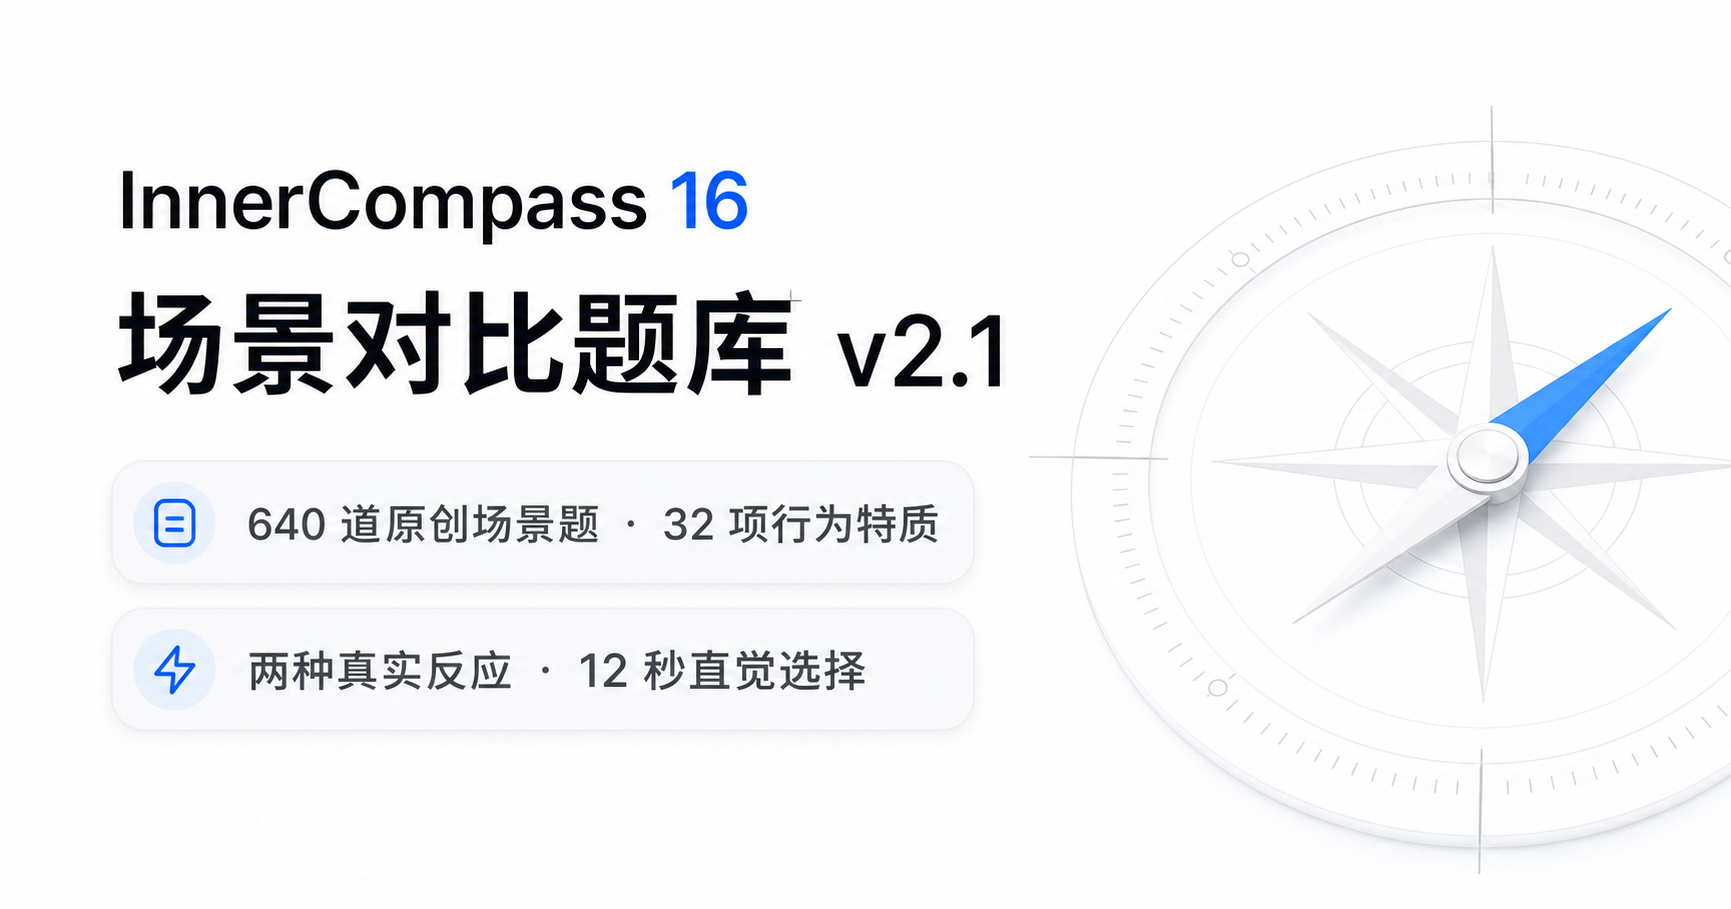
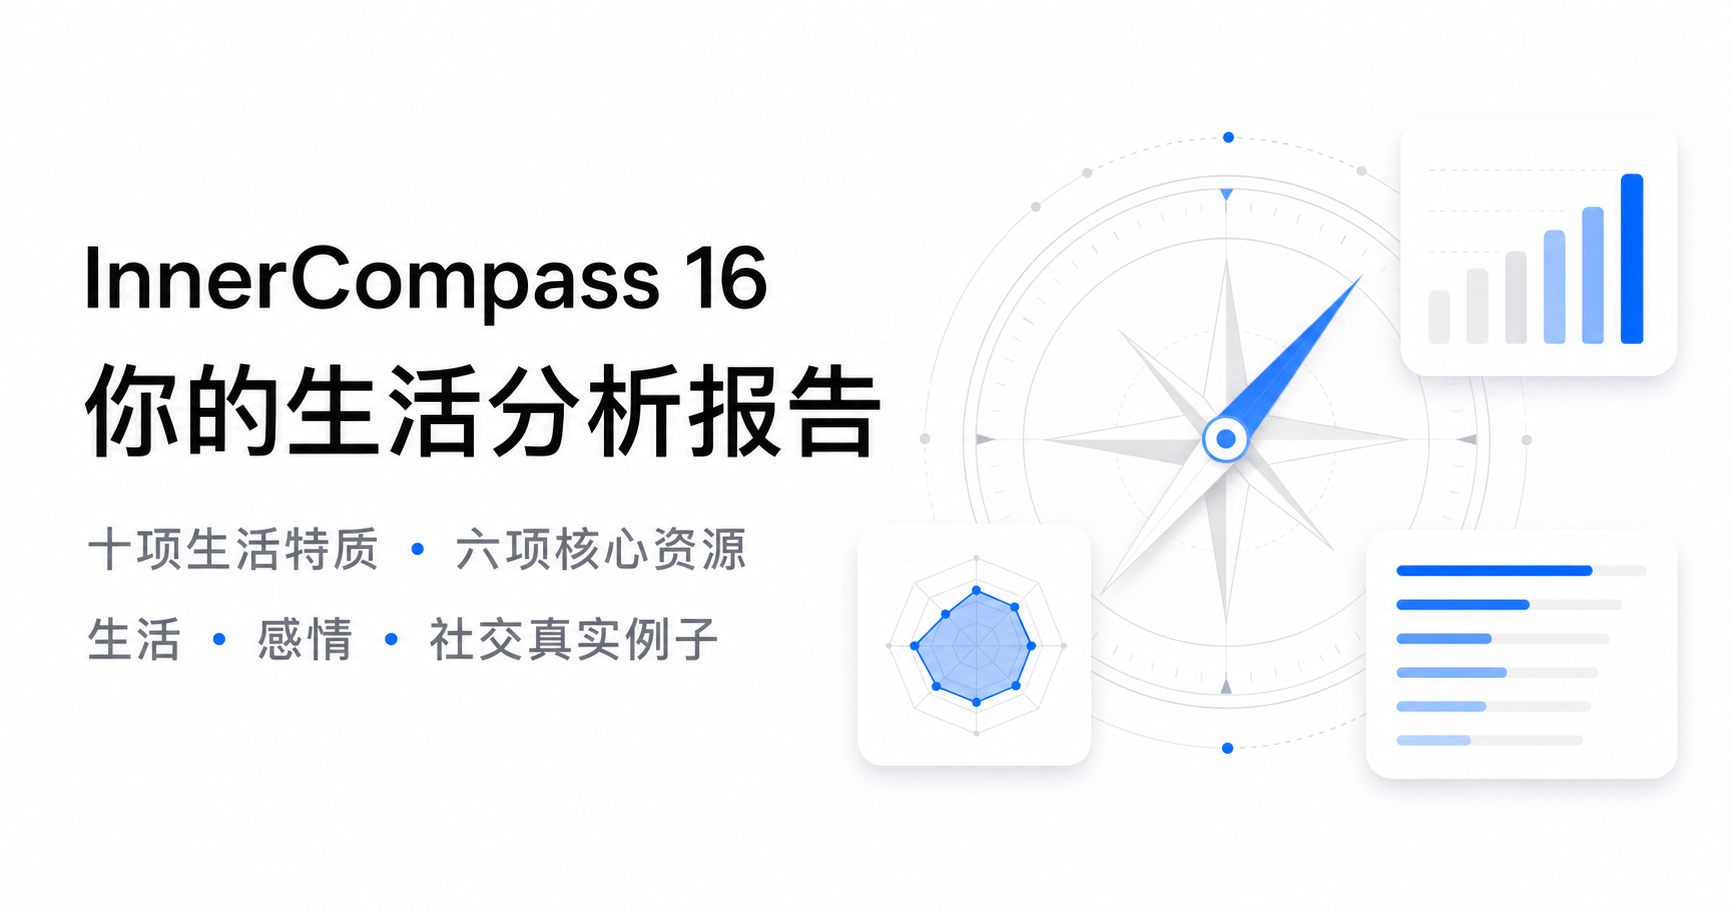
Transform report into life analysis

diff --git a/lib/reportComposer.ts b/lib/reportComposer.ts
@@ -38,7 +38,48 @@ export type AxisInsight = {
   sceneSwitch?: string;
 };
 
+export type LifeDimensionInsight = {
+  id: string;
+  title: string;
+  score: number;
+  usageLabel: string;
+  interpretation: string;
+  example: string;
+};
+
 const traits = traitCatalogJson.traits as TraitCatalogItem[];
+
+const lifeDimensionSpecs = [
+  { id: "L_E_SOCIAL", title: "社交启动", high: "到了几乎没有熟人的聚会，你通常愿意先找一个人聊起来。", low: "你更可能先观察环境，等感觉安全后再慢慢参与。" },
+  { id: "L_I_RECOVER", title: "独处恢复", high: "连续社交几天后，你会主动空出一段安静时间恢复状态。", low: "你更容易通过聊天或共同活动重新获得能量。" },
+  { id: "L_I_THINK", title: "独立思考", high: "面对重要决定，你会先独立想清楚，再和别人讨论。", low: "你更容易在来回交流中逐渐确认自己的想法。" },
+  { id: "L_S_DETAIL", title: "细节核对", high: "购买价格较高的东西前，你会核对参数、价格和实际条件。", low: "你通常先抓整体感受，需要时才回头补细节。" },
+  { id: "L_N_POSSIBILITY", title: "可能性探索", high: "别人提出一个普通想法时，你常会继续想到它还能变成什么。", low: "你更愿意先把已经可行的方法稳定做好。" },
+  { id: "L_S_PRACTICAL", title: "现实落地", high: "有了新想法后，你会很快追问今天能先完成哪一步。", low: "你更愿意先把方向想丰富，不急着马上固定做法。" },
+  { id: "L_T_LOGIC", title: "逻辑判断", high: "即使大家都赞同一个观点，你仍会检查它的因果和标准。", low: "你会先理解相关人的处境，再判断这个观点是否合适。" },
+  { id: "L_F_EMOTION", title: "情绪感知", high: "朋友嘴上说没事但状态不对时，你通常能较快注意到变化。", low: "你更相信对方明确说出的内容，不轻易替他解释感受。" },
+  { id: "L_J_PLAN", title: "计划组织", high: "准备三到五天的旅行时，你会先确定住宿、路线和关键时间。", low: "你通常只定最基本的部分，把更多决定留到现场。" },
+  { id: "L_P_ADAPT", title: "灵活应变", high: "原定计划临时被打乱时，你通常能较快接受并重新安排。", low: "突发变化会明显占用你的精力，你更喜欢维持确定节奏。" },
+] as const;
+
+const lifeManualCopy: Record<Pole, string> = {
+  E: "先找可信任的人聊一轮，借外部反馈理清状态；之后再留一点时间独立收束。",
+  I: "先给自己一段安静时间形成判断，再把结论和需要明确告诉关键的人。",
+  S: "先核对已经发生的事实、数字和步骤，再决定是否需要扩大解释。",
+  N: "先抓住信息之间的联系和可能方向，再补三个可以验证的具体事实。",
+  T: "先明确问题、标准和可执行办法，再确认这个决定会怎样影响相关的人。",
+  F: "先确认感受和关系影响，再把自己的原则、边界与下一步说清楚。",
+  J: "先确定关键节点、截止点和必须完成的部分，同时为变化预留缓冲。",
+  P: "先保留选择并开始一个小尝试，再设一个检查点，避免事情一直悬着。",
+};
+
+function usageLabel(score: number): string {
+  if (score >= 70) return "自然常用";
+  if (score >= 56) return "比较常用";
+  if (score >= 45) return "灵活切换";
+  if (score >= 30) return "较少使用";
+  return "通常不优先";
+}
 
 const legacyTraitIds: Record<string, string> = {
   L_E_SOCIAL: "life_social_initiative", L_I_RECOVER: "life_solitude_recovery",
@@ -236,6 +277,42 @@ export function composeReport(result: SessionResult, completedRuns: SessionResul
   const relationshipTraits = traitScores.filter((item) => item.domain === "relationship");
   const axisBy = Object.fromEntries(axes.map((item) => [item.axis, item])) as Record<Axis, AxisInsight>;
   const traitBy = Object.fromEntries(traitScores.map((item) => [item.id, item])) as Record<string, TraitInsight>;
+  const lifeDimensions: LifeDimensionInsight[] = lifeDimensionSpecs.map((spec) => {
+    const trait = traitBy[spec.id];
+    const example = trait.score >= 56
+      ? spec.high
+      : trait.score <= 44
+        ? spec.low
+        : `这两种方式你都会使用，通常会根据精力、关系距离和事情的重要程度切换。`;
+    return {
+      id: spec.id,
+      title: spec.title,
+      score: trait.score,
+      usageLabel: usageLabel(trait.score),
+      interpretation: trait.interpretation,
+      example,
+    };
+  });
+  const coreLifeResources = traitScores.slice(0, 6).map((item) => ({
+    title: item.name,
+    score: item.score,
+    domain: item.domain,
+    text: item.interpretation,
+    evidence: `常见表现：${item.behavior}。`,
+    action: item.action,
+  }));
+  const energyDrains = traitScores.slice(-5).reverse().map((item) => ({
+    title: item.name,
+    score: item.score,
+    text: `当生活持续要求你${item.behavior}时，你可能需要投入更多注意力，也更容易感到消耗。你更自然的方式通常是${item.alternative}。`,
+    action: item.action,
+  }));
+  const lifeManual = axes.map((item) => ({
+    axis: item.axis,
+    title: ({ EI: "恢复精力时", SN: "理解信息时", TF: "做重要决定时", JP: "安排生活节奏时" } as Record<Axis, string>)[item.axis],
+    preference: `${item.dominantPole} ${item.dominantPercent}% · ${item.strengthLabel}`,
+    text: lifeManualCopy[item.dominantPole],
+  }));
   const runs = completedRuns.length ? completedRuns : [result];
   const quality = {
     confidence: confidence(result, runs),
@@ -257,6 +334,10 @@ export function composeReport(result: SessionResult, completedRuns: SessionResul
     bottomTraits: traitScores.slice(-6).reverse(),
     lifeTraits,
     relationshipTraits,
+    lifeDimensions,
+    coreLifeResources,
+    energyDrains,
+    lifeManual,
     gaps,
     flow,
     flowTitle: flow.join(" → "),

diff --git a/app/globals.css b/app/globals.css
@@ -214,6 +214,52 @@ button:focus-visible { outline:3px solid rgba(22,119,255,.28); outline-offset:3p
 .topic-grid h3 { margin:0; font-size:16px; }
 .topic-grid p { margin:10px 0 0; color:#5d6672; font-size:14px; line-height:1.78; }
 .topic-grid.relationship article { background:#fbfcfe; }
+.section-intro { margin:-12px 0 30px; max-width:860px; color:#68717d; font-size:14px; line-height:1.8; }
+.life-dimension-grid { display:grid; grid-template-columns:1fr 1fr; gap:14px; }
+.life-dimension-grid>article { padding:24px; border:1px solid var(--line); border-radius:20px; background:#fff; }
+.life-dimension-grid header { display:flex; align-items:flex-start; justify-content:space-between; gap:16px; }
+.life-dimension-grid header span { color:var(--blue); font-size:11px; font-weight:750; }
+.life-dimension-grid h3 { margin:5px 0 0; font-size:19px; }
+.life-dimension-grid header strong { color:var(--blue); font-size:28px; letter-spacing:-.05em; }
+.life-dimension-grid>article>i { display:block; height:6px; margin:17px 0; border-radius:999px; overflow:hidden; background:#e9edf3; }
+.life-dimension-grid>article>i em { display:block; height:100%; border-radius:999px; background:var(--blue); }
+.life-dimension-grid>article>p { min-height:66px; margin:0; color:#5f6875; font-size:13px; line-height:1.7; }
+.scene-example { margin-top:18px; padding:15px 16px; border-radius:14px; background:#f5f8fc; }
+.scene-example b { color:var(--blue); font-size:11px; }
+.scene-example p { margin:6px 0 0; color:#4f5865; font-size:13px; line-height:1.65; }
+.resource-grid { display:grid; grid-template-columns:1fr 1fr; gap:14px; }
+.resource-grid>article { position:relative; padding:24px; border:1px solid var(--line); border-radius:20px; background:#fff; overflow:hidden; }
+.resource-rank { position:absolute; top:-9px; right:12px; color:#eef4fc; font-size:64px; font-weight:850; letter-spacing:-.08em; }
+.resource-grid header { position:relative; display:flex; justify-content:space-between; gap:18px; }
+.resource-grid header span { color:var(--blue); font-size:11px; font-weight:750; }
+.resource-grid h3 { margin:5px 0 0; font-size:20px; }
+.resource-grid header strong { color:var(--blue); font-size:27px; }
+.resource-grid>article>p { position:relative; margin:18px 0; color:#5c6571; font-size:13px; line-height:1.75; }
+.resource-grid>article>div:last-child { position:relative; display:flex; flex-direction:column; gap:7px; padding-top:16px; border-top:1px solid var(--line); }
+.resource-grid>article>div:last-child b { color:#424b57; font-size:12px; }
+.resource-grid>article>div:last-child small { color:#7c8490; line-height:1.6; }
+.life-split { align-items:start; }
+.drain-list { display:flex; flex-direction:column; gap:12px; }
+.drain-list>article { padding:22px 24px; border:1px solid #eee9e1; border-radius:18px; background:#fdfbf8; }
+.drain-list header { display:flex; align-items:center; justify-content:space-between; gap:18px; }
+.drain-list h3 { margin:0; font-size:17px; }
+.drain-list header span { color:#9a7450; font-size:12px; font-weight:700; }
+.drain-list>article>p { margin:12px 0 16px; color:#655f59; font-size:13px; line-height:1.75; }
+.drain-list>article>div { display:flex; gap:10px; padding-top:14px; border-top:1px solid #eee5da; font-size:12px; line-height:1.6; }
+.drain-list>article>div b { color:#9a6337; flex:0 0 auto; }
+.drain-list>article>div span { color:#73685f; }
+.life-manual-grid { display:grid; grid-template-columns:1fr 1fr; gap:14px; }
+.life-manual-grid>article { display:grid; grid-template-columns:48px 1fr; gap:16px; padding:23px; border:1px solid var(--line); border-radius:19px; background:#fff; }
+.life-manual-grid>article>span { width:48px; height:48px; display:grid; place-items:center; border-radius:15px; color:#fff; background:var(--blue); font-size:13px; font-weight:800; }
+.life-manual-grid small { color:var(--blue); font-size:11px; font-weight:700; }
+.life-manual-grid h3 { margin:5px 0 10px; font-size:18px; }
+.life-manual-grid p { margin:0; color:#5d6672; font-size:13px; line-height:1.75; }
+.full-trait-report>summary { display:flex; align-items:center; justify-content:space-between; gap:20px; cursor:pointer; list-style:none; }
+.full-trait-report>summary::-webkit-details-marker { display:none; }
+.full-trait-report>summary span { color:var(--blue); font-size:12px; font-weight:750; }
+.full-trait-report>summary h2 { margin:7px 0 0; font-size:23px; }
+.full-trait-report>summary>b { color:var(--blue); font-size:13px; }
+.full-trait-report[open]>summary { margin-bottom:32px; padding-bottom:24px; border-bottom:1px solid var(--line); }
 
 .history-header { padding:78px 0 58px; }
 .history-header h1 { max-width:720px; }
@@ -238,7 +284,7 @@ button:focus-visible { outline:3px solid rgba(22,119,255,.28); outline-offset:3p
 
 @keyframes fadeUp { from { opacity:0; transform:translateY(7px); } to { opacity:1; transform:none; } }
 @media (prefers-reduced-motion:reduce) { * { scroll-behavior:auto!important; animation:none!important; transition:none!important; } }
-@media print { .topbar,.top-actions,.result-actions,.floating-report { display:none!important; } .app-shell { padding:0; } .report-card,.switch-card { break-inside:avoid; box-shadow:none; } details>summary { display:none; } details .trait-compact-grid { display:grid; } }
+@media print { .topbar,.top-actions,.result-actions,.floating-report { display:none!important; } .app-shell { padding:0; } .report-card,.switch-card { box-shadow:none; } .life-dimension-grid>article,.resource-grid>article,.drain-list>article,.life-manual-grid>article,.axis-detail-grid>article { break-inside:avoid; } details>summary { display:none; } .full-trait-report:not([open])>.trait-ranking { display:flex!important; } .trait-ranking details:not([open])>.trait-compact-grid { display:grid!important; } }
 @media (max-width:760px) {
   .app-shell,.app-shell.compact { padding:0 18px; }
   .topbar,.test-header { height:72px; }
@@ -268,11 +314,13 @@ button:focus-visible { outline:3px solid rgba(22,119,255,.28); outline-offset:3p
   .report-header h1 { font-size:82px; }
   .confidence-ring { width:145px; height:145px; }
   .lead-copy { font-size:18px; }
-  .insight-grid,.feature-score-grid,.split-report,.axis-detail-grid,.axis-scene-grid,.trait-band,.trait-compact-grid,.growth-list,.topic-grid,.report-reading-guide>div:last-child { grid-template-columns:1fr; }
+  .insight-grid,.feature-score-grid,.split-report,.axis-detail-grid,.axis-scene-grid,.trait-band,.trait-compact-grid,.growth-list,.topic-grid,.report-reading-guide>div:last-child,.life-dimension-grid,.resource-grid,.life-manual-grid { grid-template-columns:1fr; }
   .trait-band>h3 { grid-column:1; }
   .split-report { gap:38px; }
   .section-heading { align-items:flex-start; }
   .section-heading em { display:none; }
+  .life-dimension-grid>article>p { min-height:0; }
+  .drain-list header,.drain-list>article>div { align-items:flex-start; flex-direction:column; }
   .history-header { padding:58px 0 42px; }
   .history-list article { grid-template-columns:48px 1fr; padding:20px 16px; }
   .history-actions { grid-column:1/-1; }

diff --git a/app/InnerCompassApp.tsx b/app/InnerCompassApp.tsx
@@ -380,13 +380,14 @@ function RunResultView({ sessionId, navigate }: { sessionId: string; navigate: (
       </section>
       <section className="report-card intro-card"><div className="section-heading"><div><span>02 · 一句话总结</span><h2>{report.flowTitle}</h2></div></div><p className="lead-copy">{report.behaviorLogic}</p></section>
       <section className="report-card"><div className="section-heading"><div><span>03 · 四项说明</span><h2>每项偏好在不同场景里怎样表现</h2></div></div><div className="axis-detail-grid">{report.axes.map((axis) => <article key={axis.axis}><div className="axis-detail-title"><b>{axis.axis}</b><div><span>{axis.title}</span><h3>{axis.dominantPole} {axis.dominantPercent}% · {axis.strengthLabel}</h3></div></div><p>{axis.definition}</p><p className="axis-summary">{axis.summary}</p><dl><div><dt>生活表现</dt><dd>{axis.life}</dd></div><div><dt>学习 / 工作</dt><dd>{axis.work}</dd></div><div><dt>感情表现</dt><dd>{axis.relationship}</dd></div><div><dt>容易被误解</dt><dd>{axis.misunderstood}</dd></div><div><dt>另一侧能力</dt><dd>{axis.otherSide}</dd></div>{axis.sceneSwitch && <div><dt>场景切换</dt><dd>{axis.sceneSwitch}</dd></div>}</dl></article>)}</div></section>
-      <section className="report-card"><div className="section-heading"><div><span>04 · 32 项行为特质</span><h2>高分代表更常使用，不代表更好</h2></div><em>0–100</em></div><div className="trait-ranking"><div className="trait-band top"><h3>最高 6 项</h3>{report.topTraits.map((trait) => <article key={trait.id}><div><b>{trait.name}</b><span>{trait.domain === "life" ? "生活" : "感情"}</span></div><strong>{trait.score}</strong><i><em style={{ width: `${trait.score}%` }} /></i><p>{trait.interpretation}</p></article>)}</div><details><summary>查看中间 20 项</summary><div className="trait-compact-grid">{report.middleTraits.map((trait) => <div key={trait.id}><span>{trait.name}</span><b>{trait.score}</b><i><em style={{ width: `${trait.score}%` }} /></i></div>)}</div></details><div className="trait-band bottom"><h3>较少依赖的 6 项</h3>{report.bottomTraits.map((trait) => <article key={trait.id}><div><b>{trait.name}</b><span>{trait.domain === "life" ? "生活" : "感情"}</span></div><strong>{trait.score}</strong><i><em style={{ width: `${trait.score}%` }} /></i><p>{trait.interpretation}</p></article>)}</div></div></section>
-      <section className="report-card split-report"><div><div className="section-heading"><div><span>生活画像</span><h2>日常、学习与工作中的你</h2></div></div><p>{report.lifeSummary}</p><ul className="quality-list">{report.lifeTraits.slice(0, 5).map((trait) => <li key={trait.id}><span>{trait.name}</span><b>{trait.score}</b></li>)}</ul></div><div><div className="section-heading"><div><span>感情画像</span><h2>亲密关系中的你</h2></div></div><p>{report.relationshipSummary}</p><ul className="quality-list">{report.relationshipTraits.slice(0, 5).map((trait) => <li key={trait.id}><span>{trait.name}</span><b>{trait.score}</b></li>)}</ul></div></section>
-      <section className="report-card"><div className="section-heading"><div><span>生活画像</span><h2>十个真实生活侧面</h2></div></div><div className="topic-grid">{report.lifeTopics.map((topic) => <article key={topic.title}><h3>{topic.title}</h3><p>{topic.text}</p></article>)}</div></section>
-      <section className="report-card"><div className="section-heading"><div><span>感情与亲密关系</span><h2>八个关系中的反应侧面</h2></div></div><div className="topic-grid relationship">{report.relationshipTopics.map((topic) => <article key={topic.title}><h3>{topic.title}</h3><p>{topic.text}</p></article>)}</div></section>
+      <section className="report-card"><div className="section-heading"><div><span>04 · 十项生活特质</span><h2>把分数放回真实日常中理解</h2></div><em>0–100 · 使用频率</em></div><p className="section-intro">这里的高分表示你更自然地使用这条路径，低分表示另一种方式更省力。它们不是能力排名，也没有好坏之分。</p><div className="life-dimension-grid">{report.lifeDimensions.map((item) => <article key={item.id}><header><div><span>{item.usageLabel}</span><h3>{item.title}</h3></div><strong>{item.score}</strong></header><i><em style={{ width: `${item.score}%` }} /></i><p>{item.interpretation}</p><div className="scene-example"><b>生活例子</b><p>{item.example}</p></div></article>)}</div></section>
+      <section className="report-card"><div className="section-heading"><div><span>05 · 你的核心生活资源</span><h2>最自然的六种反应方式</h2></div><em>先发挥，再平衡</em></div><div className="resource-grid">{report.coreLifeResources.map((item, index) => <article key={item.title}><div className="resource-rank">{String(index + 1).padStart(2, "0")}</div><header><div><span>{item.domain === "life" ? "日常生活" : "亲密关系"}</span><h3>{item.title}</h3></div><strong>{item.score}</strong></header><p>{item.text}</p><div><b>{item.evidence}</b><small>平衡动作：{item.action}</small></div></article>)}</div></section>
+      <section className="report-card split-report life-split"><div><div className="section-heading"><div><span>06 · 日常画像</span><h2>你在生活里的常用路径</h2></div></div><p>{report.lifeSummary}</p><ul className="quality-list">{report.lifeTraits.slice(0, 5).map((trait) => <li key={trait.id}><span>{trait.name}</span><b>{trait.score}</b></li>)}</ul></div><div><div className="section-heading"><div><span>06 · 感情画像</span><h2>你在亲密关系里的常用路径</h2></div></div><p>{report.relationshipSummary}</p><ul className="quality-list">{report.relationshipTraits.slice(0, 5).map((trait) => <li key={trait.id}><span>{trait.name}</span><b>{trait.score}</b></li>)}</ul></div></section>
       {report.gaps.length > 0 && <section className="switch-card"><span>生活与感情场景差异</span><h2>你会根据关系距离调整行为权重。</h2>{report.gaps.map((gap) => <p key={gap.axis}><b>{gap.axis}</b> · {gap.text}</p>)}</section>}
-      <section className="report-card split-report"><div><div className="section-heading"><div><span>优势特点</span><h2>来自真实高分特质</h2></div></div><ul className="narrative-list">{report.strengths.map((item) => <li key={item.title}><b>{item.title}</b><p>{item.text}</p></li>)}</ul></div><div><div className="section-heading"><div><span>需要留意</span><h2>较少依赖的路径</h2></div></div><ul className="narrative-list attention">{report.watchouts.map((item) => <li key={item.title}><b>{item.title}</b><p>{item.text}</p></li>)}</ul></div></section>
-      <section className="report-card"><div className="section-heading"><div><span>成长建议</span><h2>可以直接使用的小动作</h2></div></div><ol className="number-list growth-list">{report.growth.map((item) => <li key={item.title}><b>{item.title}</b><p>{item.text}</p></li>)}</ol></section>
+      <section className="report-card"><div className="section-heading"><div><span>07 · 容易消耗的生活场景</span><h2>不是缺点，而是需要额外准备的路径</h2></div></div><div className="drain-list">{report.energyDrains.map((item) => <article key={item.title}><header><h3>{item.title}</h3><span>{item.score} · {item.score < 30 ? "通常不优先" : "较少使用"}</span></header><p>{item.text}</p><div><b>可用的小工具</b><span>{item.action}</span></div></article>)}</div></section>
+      <section className="report-card"><div className="section-heading"><div><span>08 · 你的生活使用说明</span><h2>在四类关键时刻，怎样顺着自己行动</h2></div></div><div className="life-manual-grid">{report.lifeManual.map((item) => <article key={item.axis}><span>{item.axis}</span><div><small>{item.preference}</small><h3>{item.title}</h3><p>{item.text}</p></div></article>)}</div></section>
+      <section className="report-card"><div className="section-heading"><div><span>09 · 成长建议</span><h2>把短板变成可以管理的生活变量</h2></div></div><p className="section-intro">不必强迫自己变成相反类型。更有效的方法，是为不自然的路径准备一个小工具、一个提醒，或一个能互补的人。</p><ol className="number-list growth-list">{report.growth.map((item) => <li key={item.title}><b>{item.title}</b><p>{item.text}</p></li>)}</ol></section>
+      <details className="report-card full-trait-report"><summary><div><span>附录 · 完整数据</span><h2>查看全部 32 项行为特质</h2></div><b>展开</b></summary><div className="trait-ranking"><div className="trait-band top"><h3>最高 6 项</h3>{report.topTraits.map((trait) => <article key={trait.id}><div><b>{trait.name}</b><span>{trait.domain === "life" ? "生活" : "感情"}</span></div><strong>{trait.score}</strong><i><em style={{ width: `${trait.score}%` }} /></i><p>{trait.interpretation}</p></article>)}</div><details><summary>查看中间 20 项</summary><div className="trait-compact-grid">{report.middleTraits.map((trait) => <div key={trait.id}><span>{trait.name}</span><b>{trait.score}</b><i><em style={{ width: `${trait.score}%` }} /></i></div>)}</div></details><div className="trait-band bottom"><h3>较少依赖的 6 项</h3>{report.bottomTraits.map((trait) => <article key={trait.id}><div><b>{trait.name}</b><span>{trait.domain === "life" ? "生活" : "感情"}</span></div><strong>{trait.score}</strong><i><em style={{ width: `${trait.score}%` }} /></i><p>{trait.interpretation}</p></article>)}</div></div></details>
       <section className="report-card split-report"><div><div className="section-heading"><div><span>多次验证（可选）</span><h2>{report.runValidation.label} · {report.runValidation.count} 次</h2></div></div><p>一次完整问卷即可获得报告；重复填写只用于观察不同状态下的波动。</p><ul className="quality-list">{report.runValidation.axes.map((axis) => <li key={axis.axis}><span>{axis.axis} 波动</span><b>{axis.change} 分 · σ {axis.sd}</b></li>)}</ul></div><div><div className="section-heading"><div><span>数据质量</span><h2>这份结果如何理解</h2></div></div><ul className="quality-list"><li><span>总体可信度</span><b>{report.quality.confidence}%</b></li><li><span>有效回答</span><b>{report.quality.answered} / {report.quality.planned}</b></li><li><span>漏答率</span><b>{report.quality.missedRate}%</b></li><li><span>中位回答</span><b>{report.quality.medianSeconds}s</b></li><li><span>过快比例</span><b>{report.quality.tooFastPercent}%</b></li><li><span>接近中线</span><b>{report.quality.boundaryCount} 个维度</b></li><li><span>单一选项占比</span><b>{report.quality.dominantOptionPercent}%</b></li><li><span>题库版本</span><b>{report.quality.bankVersion}</b></li></ul></div></section>
       <div className="result-actions">
         <button className="primary-button" onClick={() => navigate("/")}>完成并返回首页 <span>→</span></button>

diff --git a/app/layout.tsx b/app/layout.tsx
@@ -4,16 +4,16 @@ import "./globals.css";
 export const metadata: Metadata = {
   metadataBase: new URL("https://dongdongzou.github.io/mbti-dongdongzou/"),
   title: "InnerCompass 16｜看见你的行为偏好",
-  description: "从 DONGDONGZOU 场景对比题库 v2.1 的 640 道原创题中完成 80、100 或 120 题，每题在两种具体反应中直觉选择，看见 32 项行为特质。",
+  description: "完成 DONGDONGZOU 场景对比问卷，获得包含十项生活特质、核心生活资源、消耗场景、生活使用说明与成长建议的动态分析报告。",
   openGraph: {
     title: "InnerCompass 16",
-    description: "场景对比题库 v2.1｜两种具体反应 · 12 秒直觉作答 · 32 项行为特质",
-    images: [{ url: "og.png", width: 1731, height: 909, alt: "InnerCompass 16 场景对比问卷与动态深度报告" }],
+    description: "从真实选择到生活分析｜十项生活特质 · 核心资源 · 生活使用说明",
+    images: [{ url: "og.png", width: 1731, height: 909, alt: "InnerCompass 16 生活分析报告" }],
   },
   twitter: {
     card: "summary_large_image",
     title: "InnerCompass 16",
-    description: "场景对比题库 v2.1｜两种具体反应 · 12 秒直觉作答 · 32 项行为特质",
+    description: "从真实选择到生活分析｜十项生活特质 · 核心资源 · 生活使用说明",
     images: ["og.png"],
   },
 };

diff --git a/pages/index.html b/pages/index.html
@@ -4,13 +4,13 @@
     <meta charset="UTF-8" />
     <meta name="viewport" content="width=device-width, initial-scale=1.0" />
     <meta name="theme-color" content="#ffffff" />
-    <meta name="description" content="从 DONGDONGZOU 场景对比题库 v2.1 的 640 道原创题中完成 80、100 或 120 题，每题在两种具体反应中直觉选择，看见 32 项行为特质。" />
+    <meta name="description" content="完成 DONGDONGZOU 场景对比问卷，获得包含十项生活特质、核心生活资源、消耗场景、生活使用说明与成长建议的动态分析报告。" />
     <meta property="og:title" content="InnerCompass 16" />
-    <meta property="og:description" content="场景对比题库 v2.1｜两种具体反应 · 12 秒直觉作答 · 32 项行为特质" />
+    <meta property="og:description" content="从真实选择到生活分析｜十项生活特质 · 核心资源 · 生活使用说明" />
     <meta property="og:image" content="https://dongdongzou.github.io/mbti-dongdongzou/og.png" />
     <meta name="twitter:card" content="summary_large_image" />
     <meta name="twitter:title" content="InnerCompass 16" />
-    <meta name="twitter:description" content="场景对比题库 v2.1｜两种具体反应 · 12 秒直觉作答 · 32 项行为特质" />
+    <meta name="twitter:description" content="从真实选择到生活分析｜十项生活特质 · 核心资源 · 生活使用说明" />
     <meta name="twitter:image" content="https://dongdongzou.github.io/mbti-dongdongzou/og.png" />
     <title>InnerCompass 16｜看见你的行为偏好</title>
   </head>